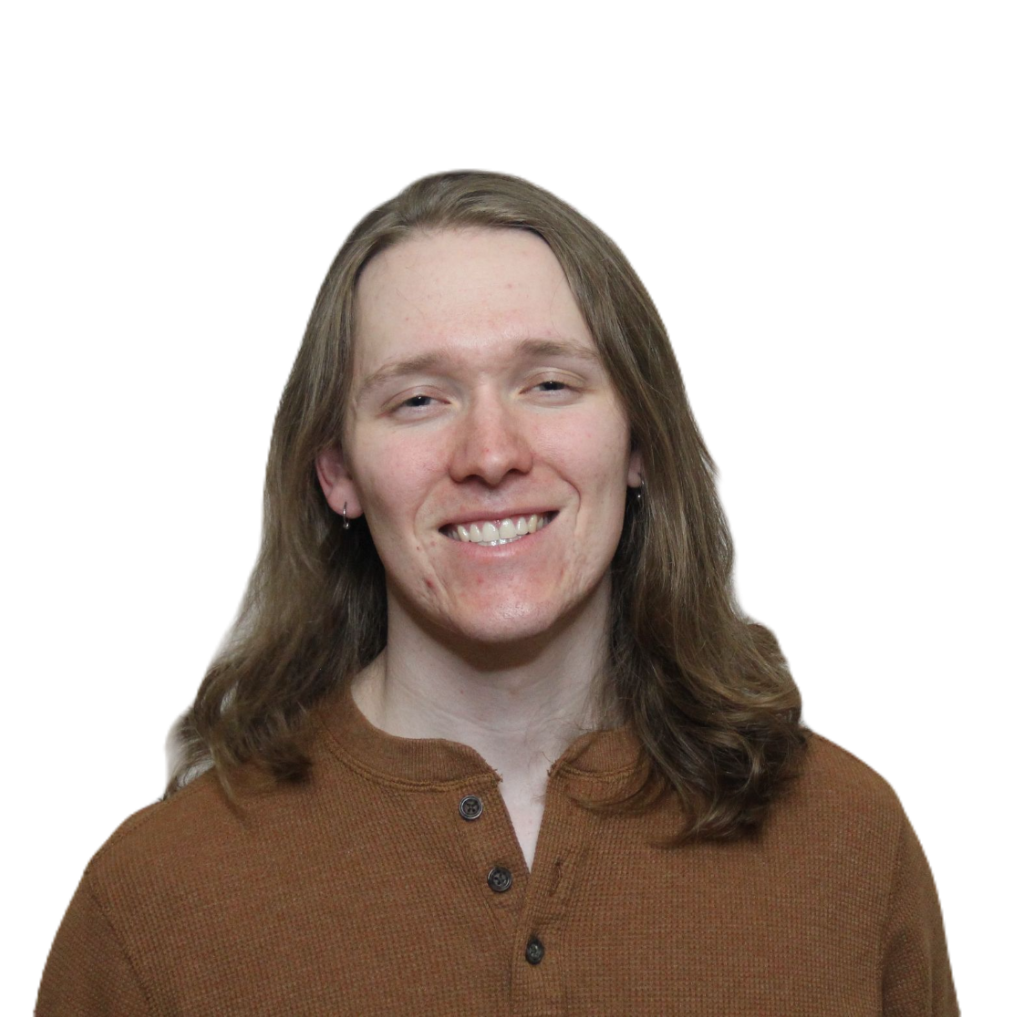
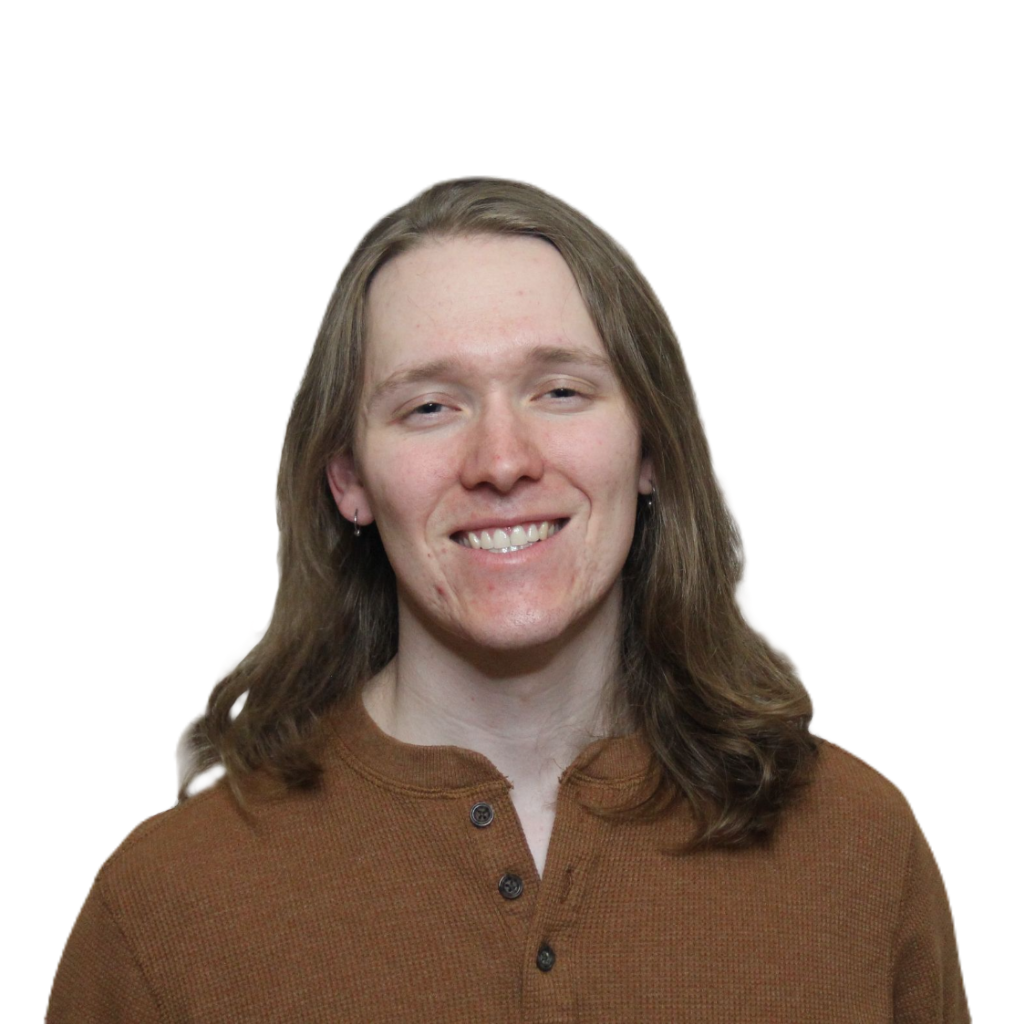
Add opacity to portrait to better support darkmode

diff --git a/README.md b/README.md
@@ -26,7 +26,7 @@ For a comprehensive list of dependencies, see [package.json](./package.json)
 
 - [ ] Rework the contact section to look better on mobile
 - [ ] *(Optional) Rework the contact section to include an email submission form*
-- [ ] Add edge opacity to the portrait photo to better support dark mode
+- [x] Add edge opacity to the portrait photo to better support dark mode
 - [ ] Update project data to include work experience, and filter out any not-so relevant projects
 - [ ] Add pills to projects listing technologies used
 - [ ] *(Optional) make tiles expand out into broader descriptions of the projects.*
